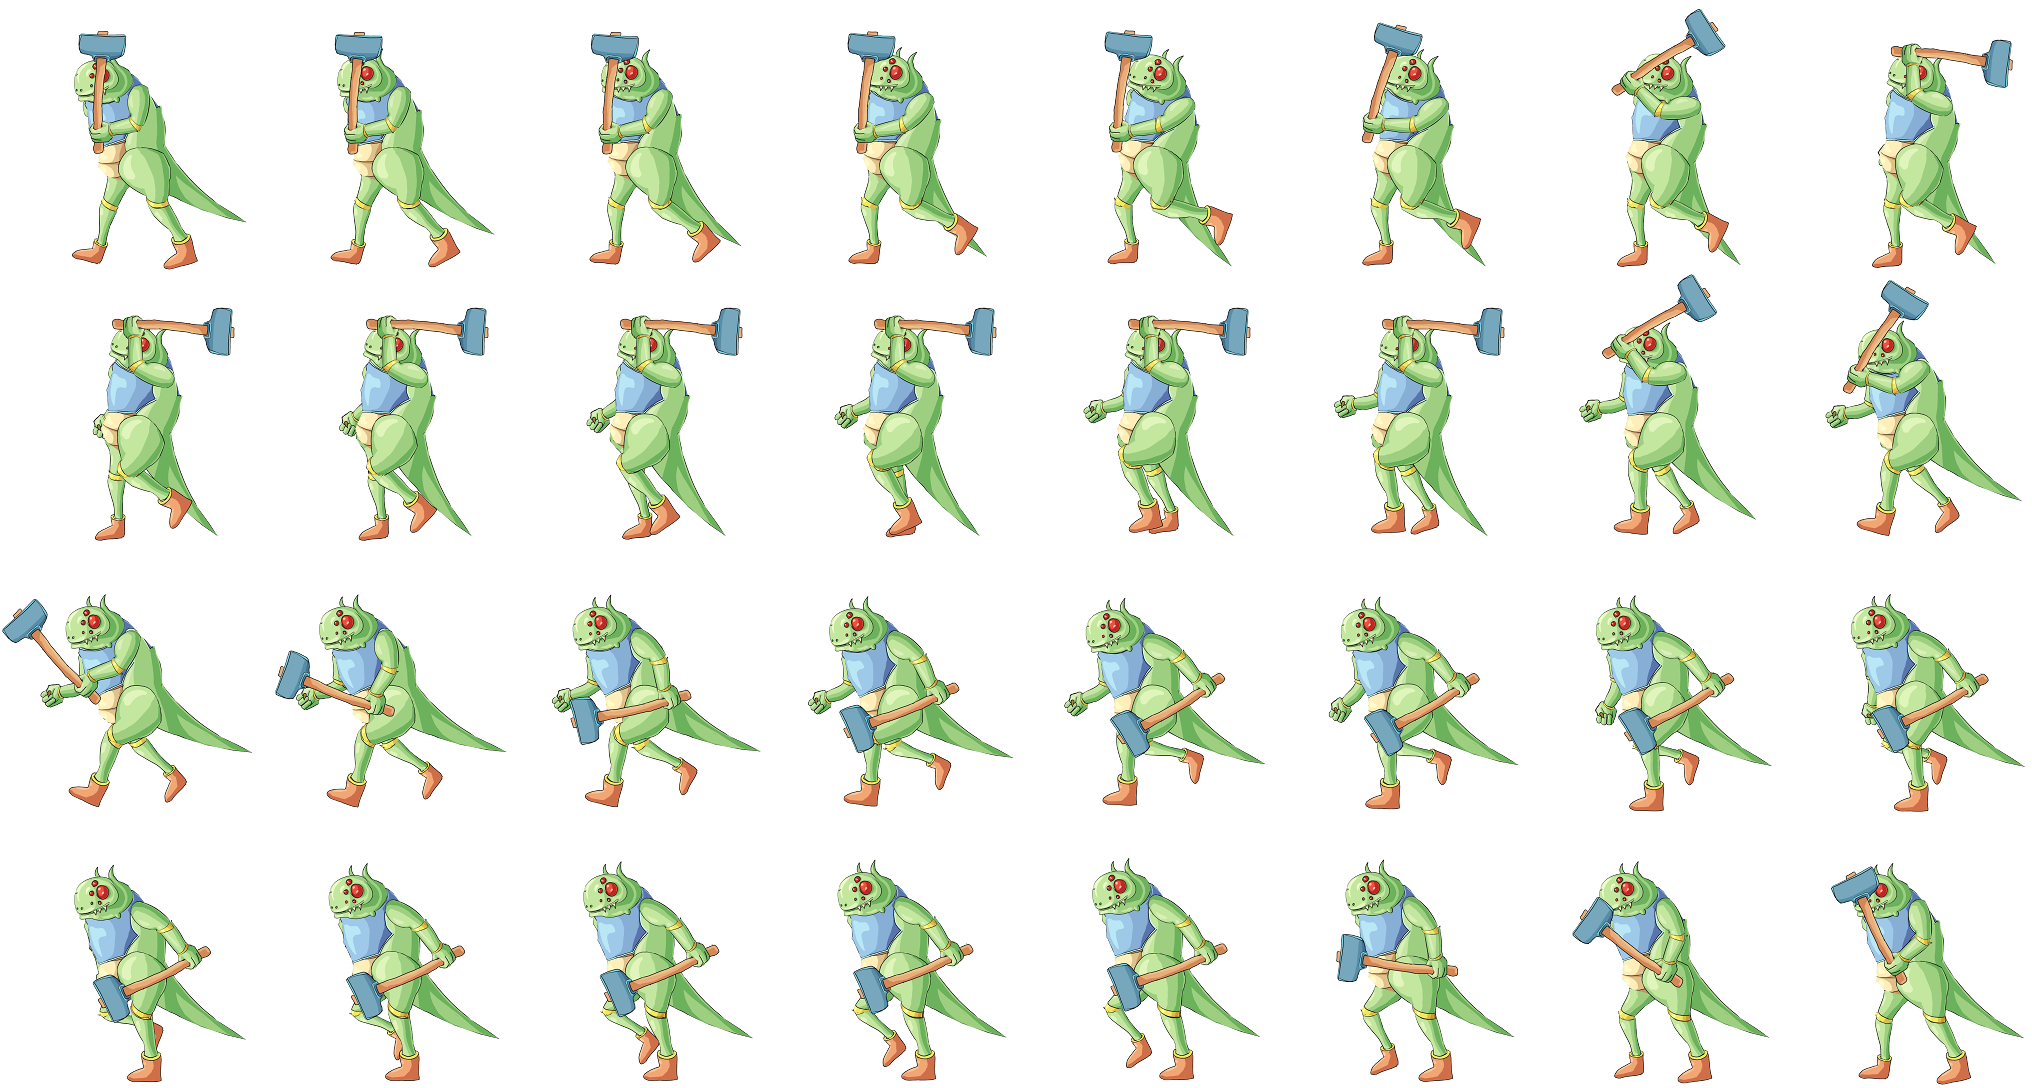
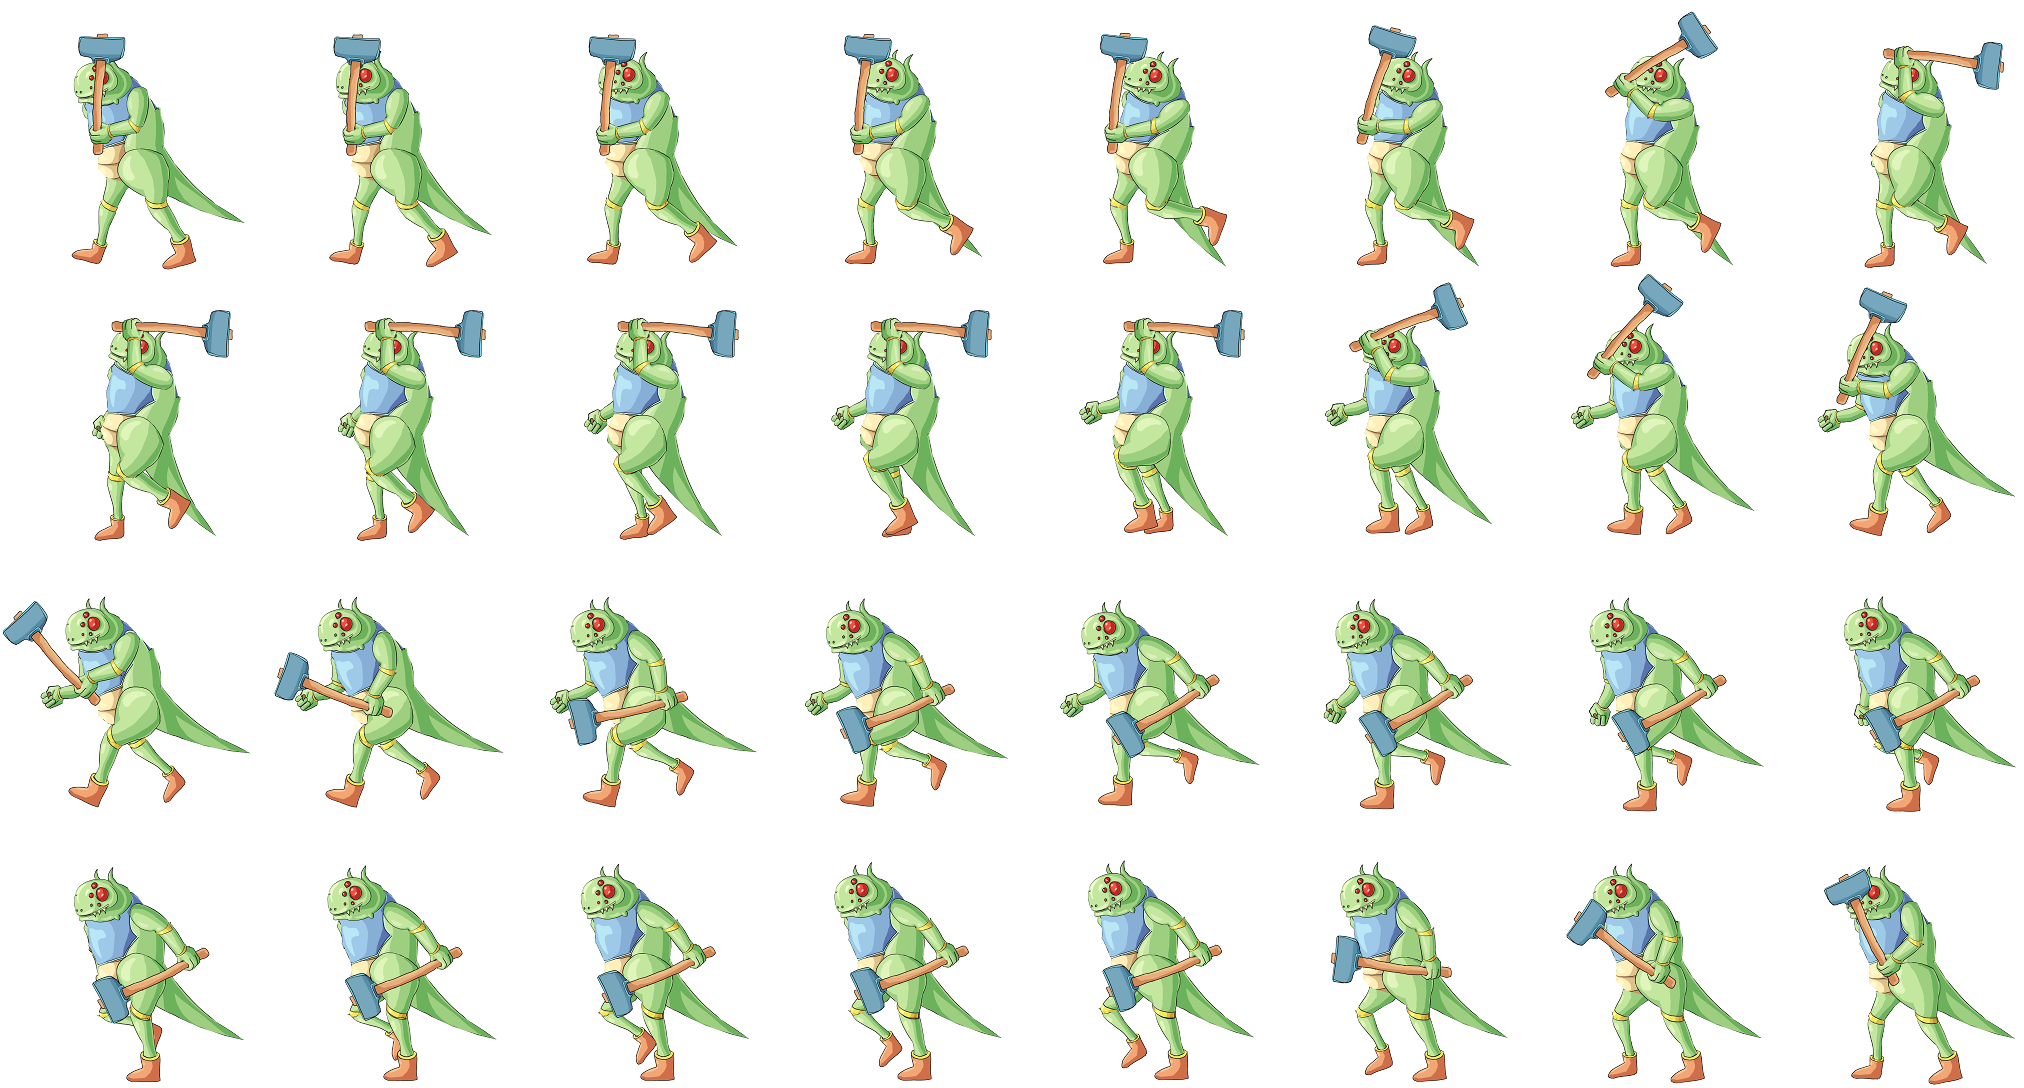
Еще одна попытка

diff --git a/js/load.js b/js/load.js
@@ -24,7 +24,7 @@ var loadState = {
         game.load.image('groundSprite', 'assets/ground2.png');
         game.load.spritesheet('monster', 'assets/monster_run.png', 222, 240, 32);
         game.load.spritesheet('monster_attack', 'assets/monster_attack.png', 249, 272, 17);
-        game.load.spritesheet('monster_run_attack', 'assets/monster_run_attack.png', 254, 272, 32);
+        game.load.spritesheet('monster_run_attack', 'assets/monster_run_attack.png', 253, 272, 32);
         game.load.spritesheet('mushroom', 'assets/mushroom_move.png', 143, 200, 32);
         game.load.spritesheet('mushroom_death', 'assets/mushroom_death.png', 238, 200, 22);
         game.load.spritesheet('mushroom_attack', 'assets/mushroom_attack.png', 190, 200, 15);

diff --git a/js/play.js b/js/play.js
@@ -112,7 +112,7 @@ var playState = {
 	  
 		//Тест анимации
 		enemy3 = game.add.sprite(1200, 140, "monster_attack");
-		enemy3.animations.add("monster_hit", [0, 1, 2, 3, 4, 5, 6, 7, 8, 9, 10, 11, 12, 13, 14, 15, 16], 26, true);
+		enemy3.animations.add("monster_hit", [0, 1, 2, 3, 4, 5, 6, 7, 8, 9, 10, 11, 12, 13, 14, 15, 16], 24, true);
 		enemy3.animations.play('monster_hit');
 		
 		//Тест анимации
